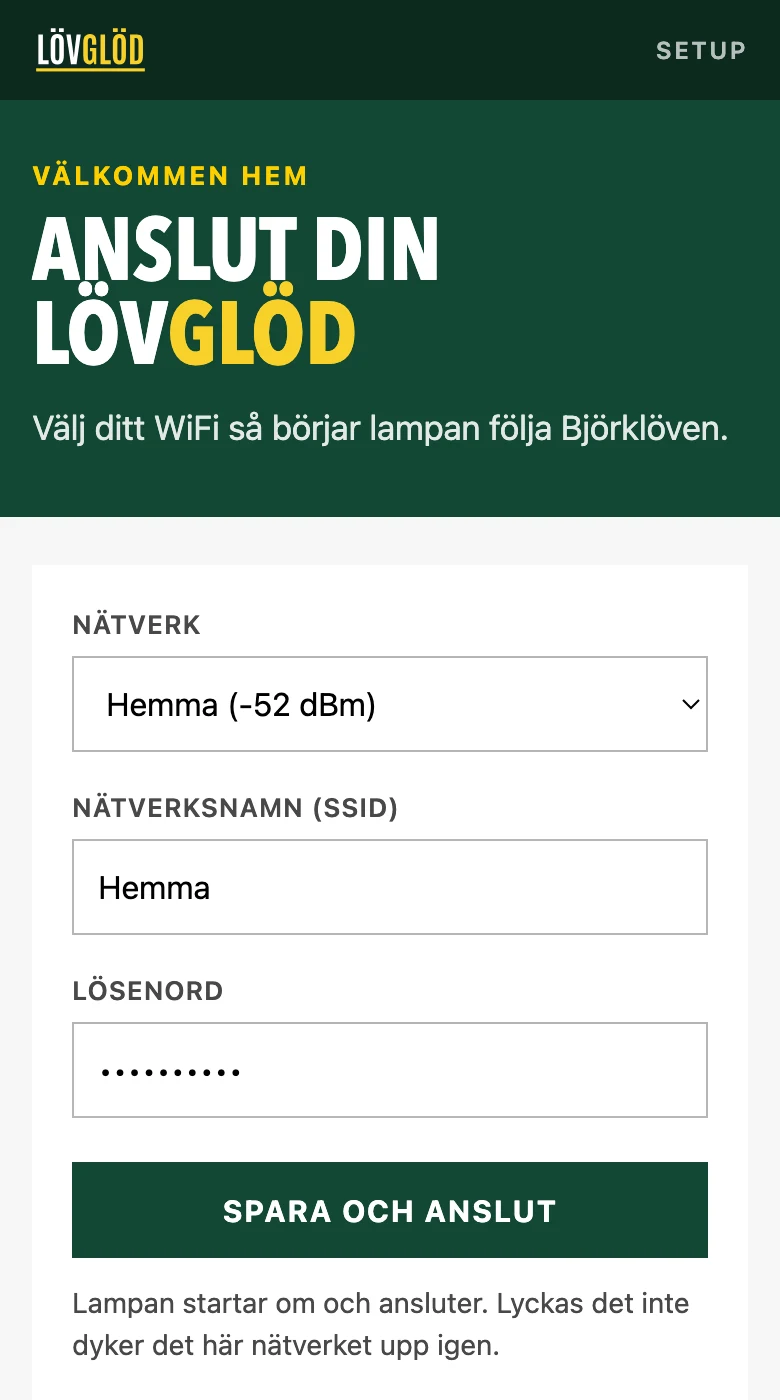
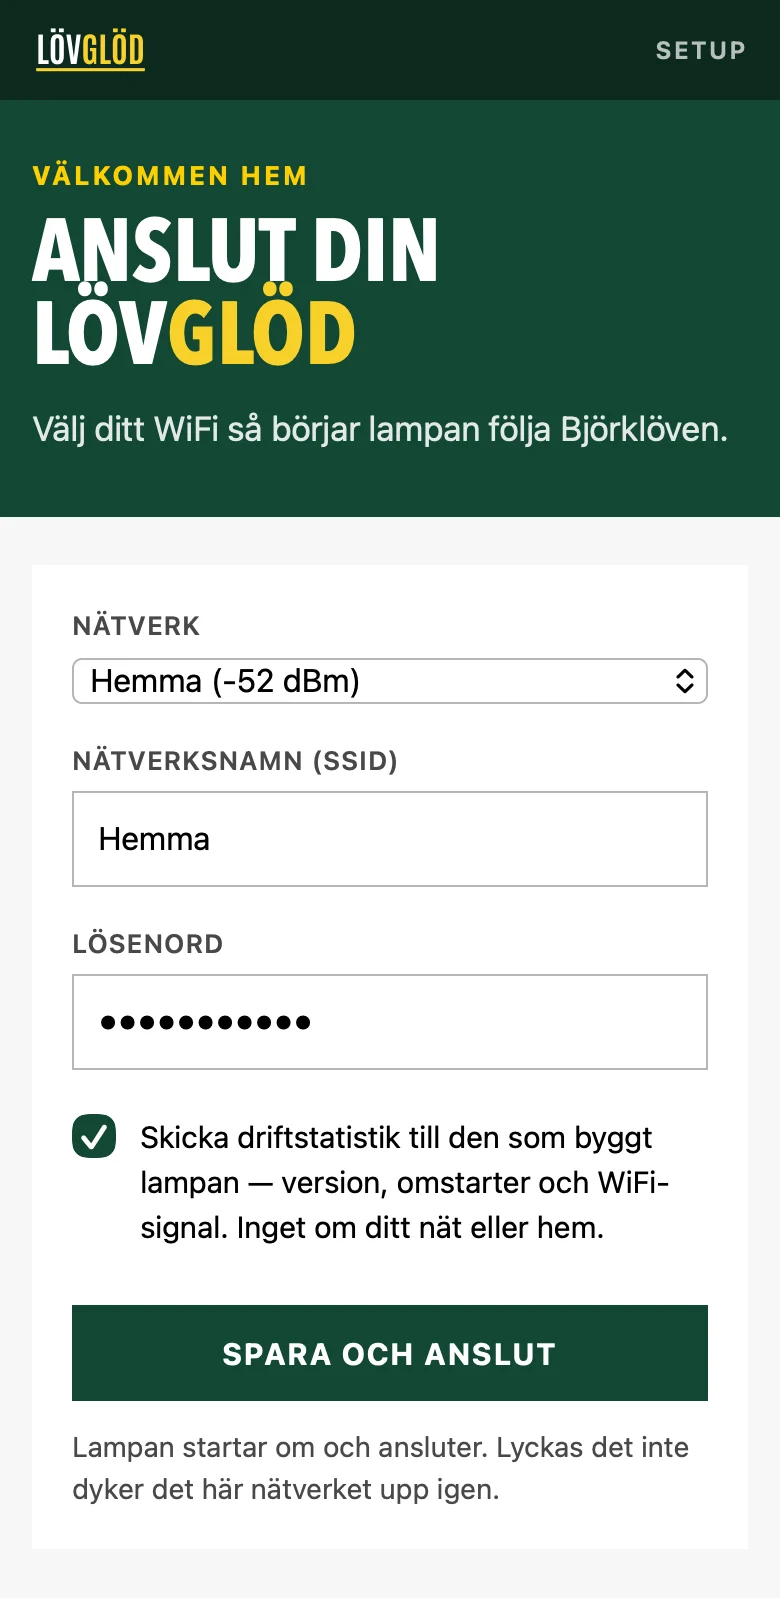
Ta om portalbilderna på Kom igång som de ser ut i mobilen
Bilderna var byggda i en datorwebbläsare med Antonio installerat, så
rubrikerna såg ut som på webbplatsen. Lampan skickar inga typsnitt och
mobilen har inget internet i setup-läget, så i verkligheten syns
reservtypsnitten. Nu renderas båda sidorna av tools/render/portal.mjs i
WebKit som en iPhone, utan webbfonter, med CSS och logotyp lästa direkt
ur firmwaren. Setup-bilden visar också rutan för driftstatistik och är
därför högre.

diff --git a/site/anvand.html b/site/anvand.html
@@ -238,7 +238,7 @@ dl[style*="width: 1280px"], ul[style*="width: 1280px"], ol[style*="width: 1280px
         </ol>
       </div>
       <div style="display: flex; flex-direction: column; gap: 48px;">
-        <figure style="margin: 0; display: flex; flex-direction: column; align-items: center; gap: 14px;"><img src="assets/portal-setup.webp" alt="Setup-sidan i mobilen: rubriken Anslut din LövGlöd, en lista med nätverk, fält för nätverksnamn och lösenord och knappen Spara och anslut." width="300" height="538" loading="lazy" style="width: 300px; height: auto; border: 10px solid #0c2a1f; border-radius: 30px; box-shadow: 0 24px 48px rgba(0,0,0,0.22);"><figcaption style="font-size: 14px; line-height: 1.45; text-align: center; color: #484848;">Så ser setup-sidan ut i mobilen. Välj nät, skriv lösenordet, klart.</figcaption></figure>
+        <figure style="margin: 0; display: flex; flex-direction: column; align-items: center; gap: 14px;"><img src="assets/portal-setup.webp" alt="Setup-sidan i mobilen: rubriken Anslut din LövGlöd, en lista med nätverk, fält för nätverksnamn och lösenord, rutan för driftstatistik och knappen Spara och anslut." width="300" height="615" loading="lazy" style="width: 300px; height: auto; border: 10px solid #0c2a1f; border-radius: 30px; box-shadow: 0 24px 48px rgba(0,0,0,0.22);"><figcaption style="font-size: 14px; line-height: 1.45; text-align: center; color: #484848;">Så ser setup-sidan ut i mobilen. Välj nät, skriv lösenordet, klart.</figcaption></figure>
       <div style="background: #f7f7f7; padding: 40px; display: flex; flex-direction: column; gap: 20px; border-left: 6px solid #124734;">
         <h3 style="font-size: 14px; font-weight: 700; text-transform: uppercase; letter-spacing: 0.1em; color: #124734;">Har du byggt den själv?</h3>
         <p style="font-size: 17px; line-height: 1.5; color: #242424;">Första gången efter flashning visar portalen bara <b>listvalet</b>. Välj den LED-list du lödde in, <b>WS2812B</b>, <b>SK6812 RGBW</b> eller <b>APA102</b>, och <b>antal dioder</b>, och tryck <i>Spara list</i>.</p>
@@ -292,7 +292,7 @@ dl[style*="width: 1280px"], ul[style*="width: 1280px"], ol[style*="width: 1280px
         <dt style="padding: 18px 0; border-bottom: 0 solid transparent; font-weight: 700;">Felsökningsläge</dt>
         <dd style="margin: 0; padding: 18px 0; border-bottom: 0 solid transparent; line-height: 1.5; color: rgba(255,255,255,0.85);">Låt stå på <b>Av</b>. Det är till för utveckling och låter en testserver styra lampan i stället för SHL.</dd>
       </dl>
-        <figure style="margin: 0; display: flex; flex-direction: column; align-items: center; gap: 14px;"><img src="assets/portal-status.webp" alt="Statussidan i mobilen: LövGlöd-logotypen, läget Standby och en tabell med lampläget, ljuset mellan matcher, nästa match, senaste resultat och ställningen nu." width="300" height="538" loading="lazy" style="width: 300px; height: auto; border: 10px solid #0c2a1f; border-radius: 30px; box-shadow: 0 24px 48px rgba(0,0,0,0.22);"><figcaption style="font-size: 14px; line-height: 1.45; text-align: center; color: rgba(255,255,255,0.7);">Statussidan i mobilen. Överst syns läget och nästa match, längre ner inställningarna.</figcaption></figure>
+        <figure style="margin: 0; display: flex; flex-direction: column; align-items: center; gap: 14px;"><img src="assets/portal-status.webp" alt="Statussidan i mobilen: LövGlöd-logotypen, läget Standby och en tabell med lampläget, ljuset mellan matcher, nästa match, senaste resultat och ställningen nu." width="300" height="535" loading="lazy" style="width: 300px; height: auto; border: 10px solid #0c2a1f; border-radius: 30px; box-shadow: 0 24px 48px rgba(0,0,0,0.22);"><figcaption style="font-size: 14px; line-height: 1.45; text-align: center; color: rgba(255,255,255,0.7);">Statussidan i mobilen. Överst syns läget och nästa match, längre ner inställningarna.</figcaption></figure>
       </div>
 
       <div style="display: flex; flex-direction: column; gap: 20px;">

diff --git a/tools/render/README.md b/tools/render/README.md
@@ -97,3 +97,22 @@ behöver skalas upp. Vill du ha skarpare bilder till en retinaskärm är
 | Tom eller svart bild | Chromium saknar GPU. Verktyget kör redan med SwiftShader; på en burk utan skärm kan `--scale 1` behövas för att hålla nere minnet |
 | `sharp saknas` | Verktyget sparar png i full dukstorlek i stället. `npm install` igen |
 | Vill peka ut en egen Chromium | `LOVGLOD_CHROMIUM=/sökväg/till/chrome node render.mjs` |
+
+## Mobilbilderna av portalen
+
+`portal-setup.webp` och `portal-status.webp` på Kom igång-sidan renderas av
+`portal.mjs`:
+
+```bash
+cd tools/render
+npx playwright install webkit   # första gången
+node portal.mjs                 # → site/assets/portal-*.webp
+```
+
+CSS:en och logotypen läses direkt ur `src/portal.cpp` och
+`include/logo_svg.h`. Sidornas markup är däremot en kopia av `head()`,
+`handleSetup()` och `handleStatus()` med påhittade värden — ändras de sidorna
+får mallarna i skriptet ändras med. Bilderna tas i WebKit som en iPhone och
+utan Antonio och Barlow, eftersom lampan inte skickar några typsnitt: det
+som syns är reservtypsnitten, som i mobilen. Ändras bildhöjden skriver
+skriptet ut de nya måtten för `width`/`height` i `site/anvand.html`.
